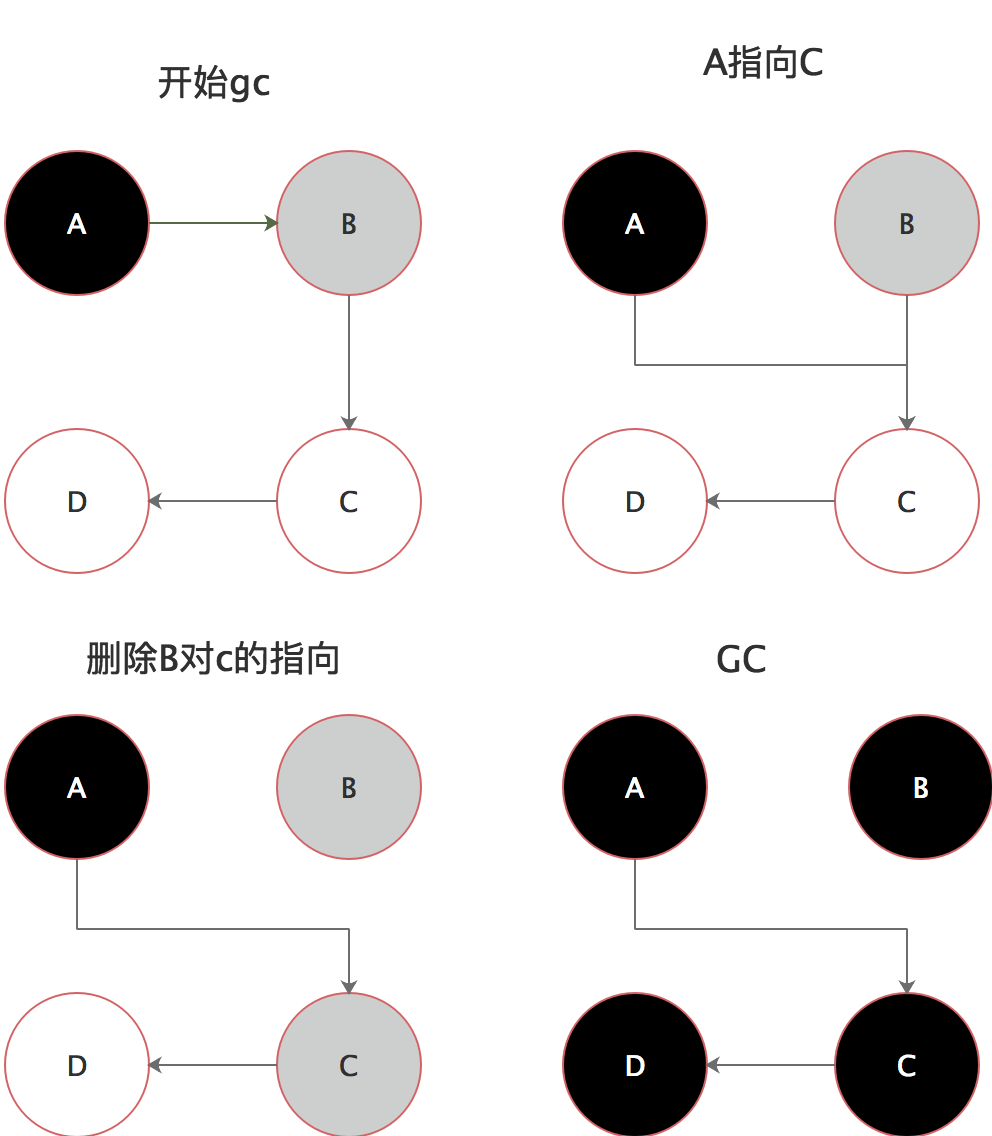
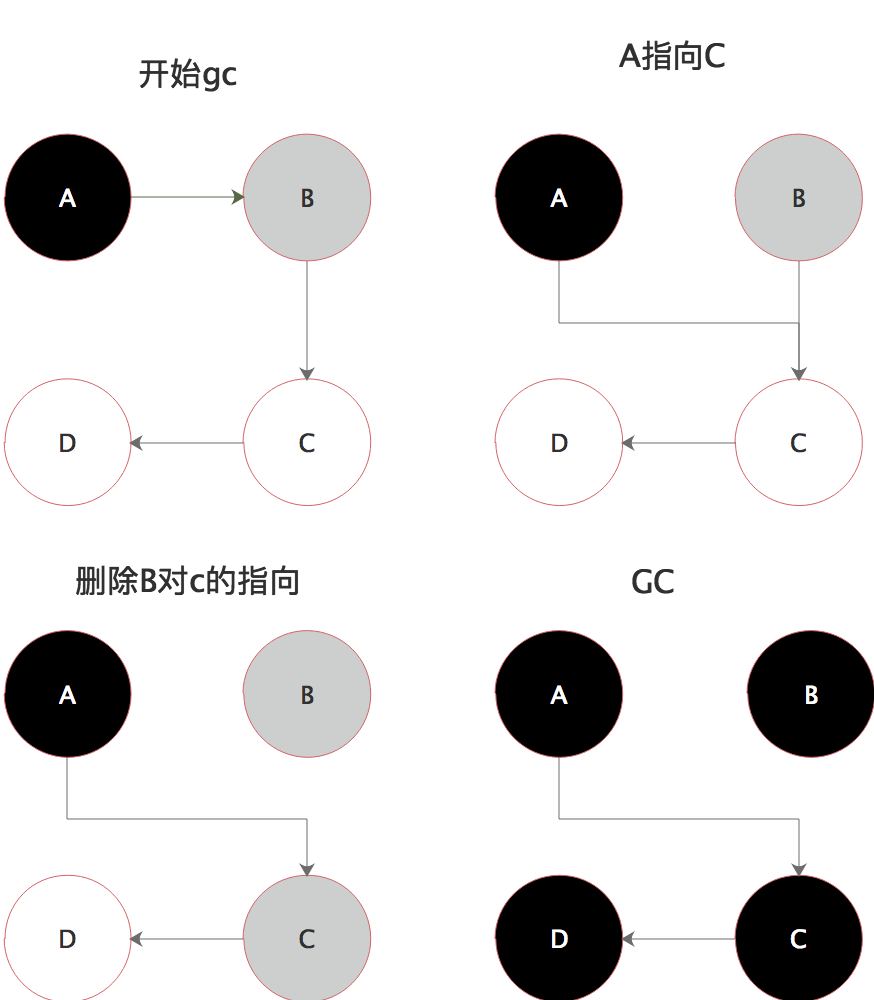
gc

diff --git a/gc/gc.md b/gc/gc.md
@@ -163,7 +163,7 @@ Yuasa 在 1990 年的论文 Real-time garbage collection on general-purpose mach
 
 删除屏障也是拦截写操作的，但是是通过保护灰色对象到白色对象的路径不会断来实现的。  
 
-<img src="/img/gc_4.png" width = "500" height = "300" alt="gc" align=center />
+<img src="/img/gc_4.png" width = "437" height = "500" alt="gc" align=center />
 
 
 
